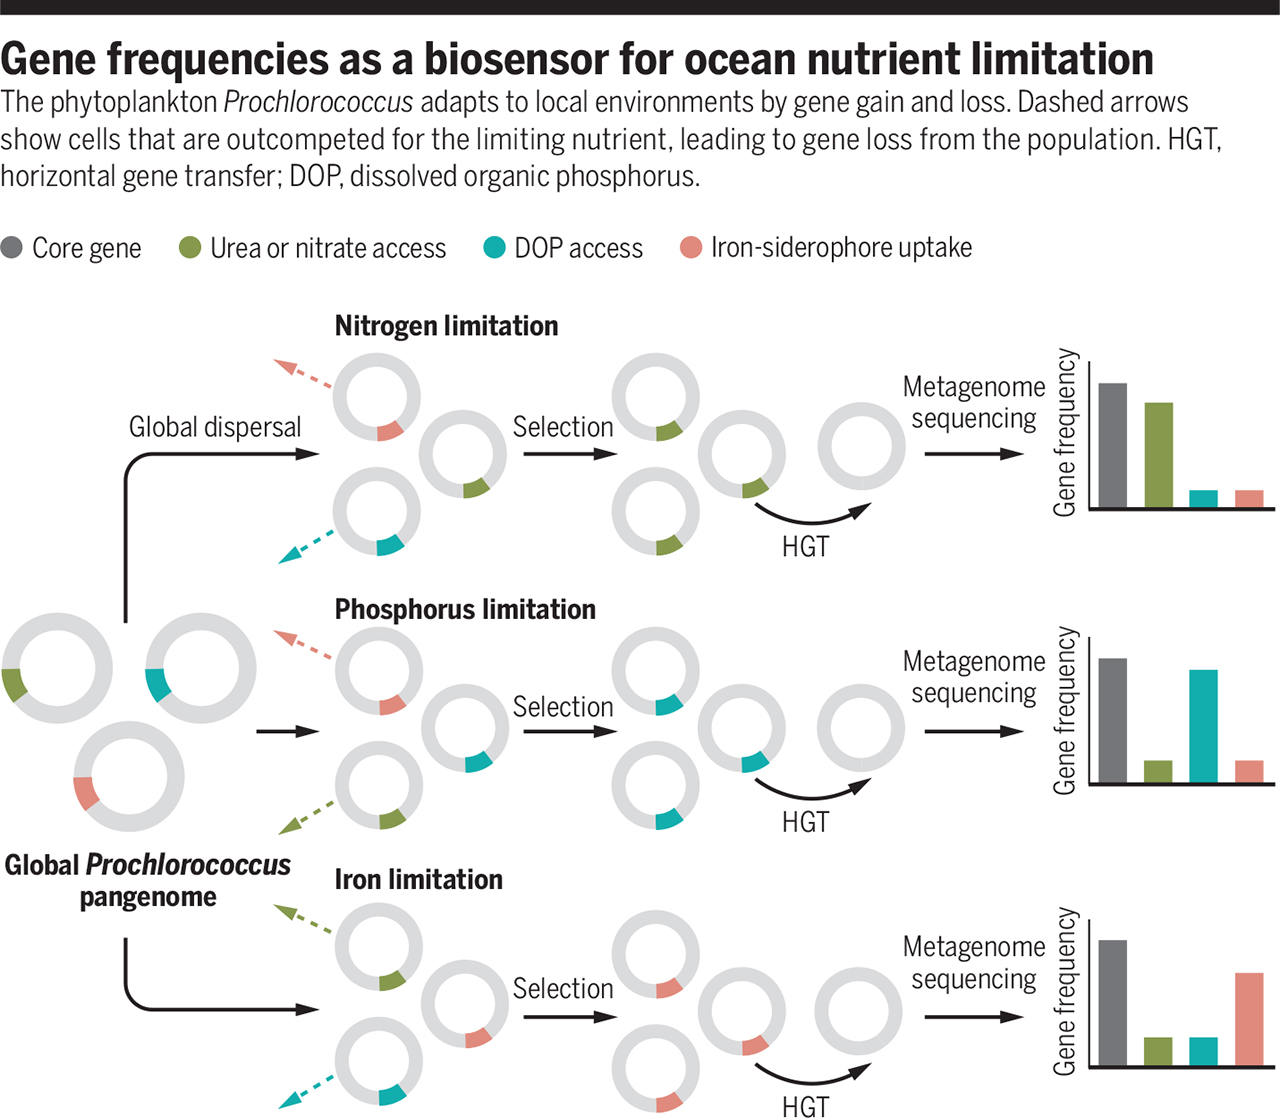
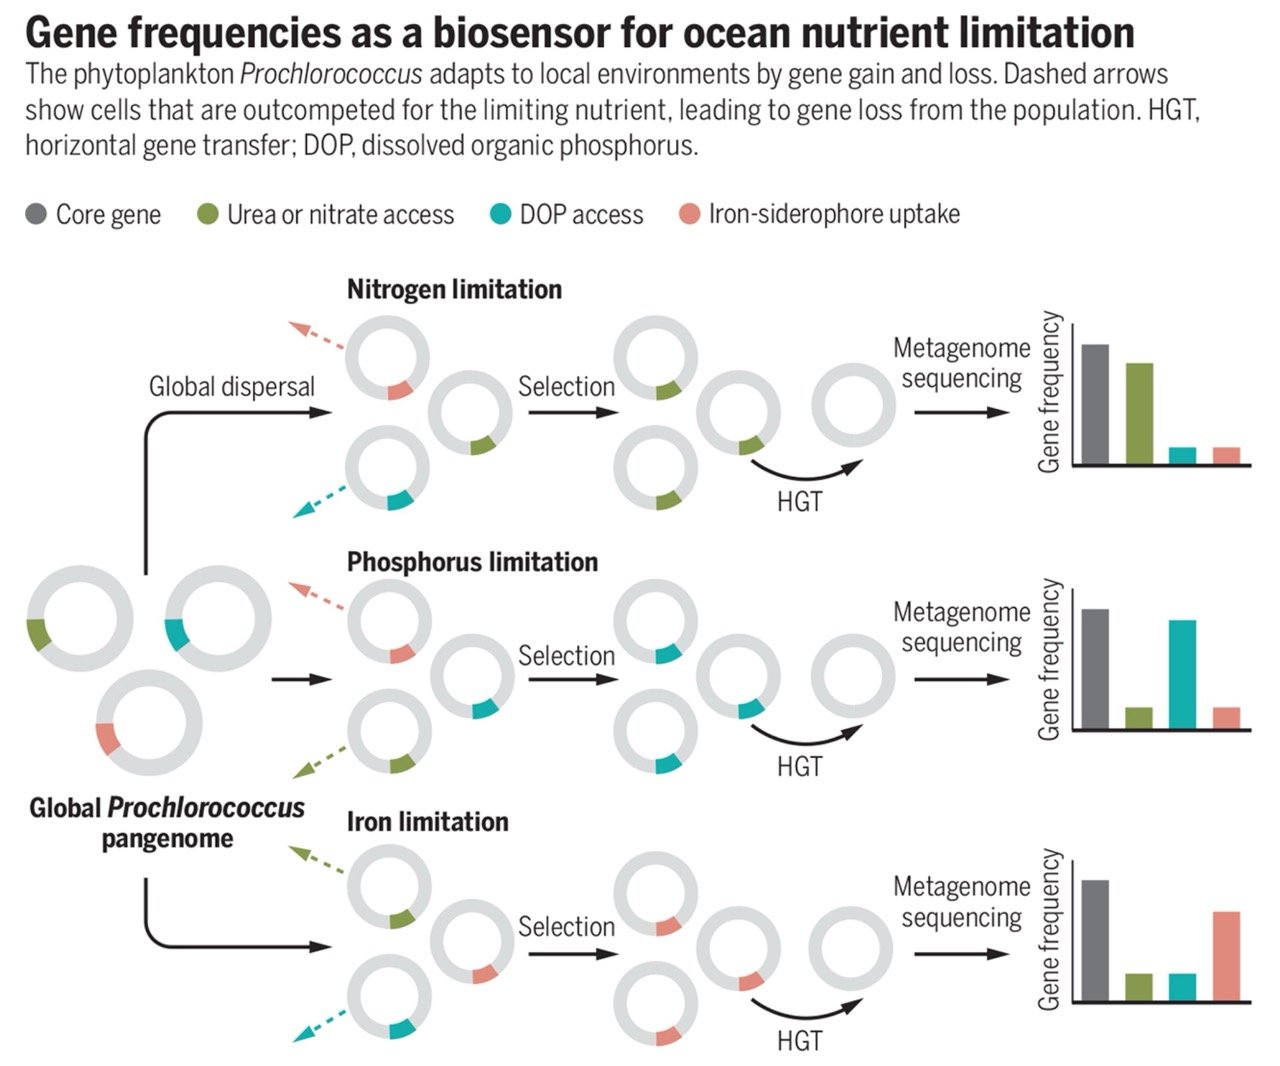
update project 3

Changed region(s): [[0.0, 0.0, 1.0, 1.0], [0.5312, 0.1857, 0.75, 0.2477]]

diff --git a/_projects/03_nut_lim_project.md b/_projects/03_nut_lim_project.md
@@ -8,6 +8,20 @@ importance: 3
 #category: work
 ---
 
+<figure style="float: right; width: 50%; margin: 0 0 1.5rem 2rem;">
+  <img
+    src="/assets/img/projects/nutrient_lim.jpeg"
+    class="img-fluid rounded z-depth-1"
+    alt="Global patterns of nutrient limitation"
+  >
+  <figcaption class="caption">
+    Conceptual overview of the genomic approach to nutrient limitation presented in
+    <a href="https://doi.org/10.1126/science.abe6301">Ustick et al. (2021)</a>,
+    illustrated in the accompanying <i>Science</i> Perspective by
+    <a href="https://doi.org/10.1126/science.abi4684">Coleman (2021)</a>.
+  </figcaption>
+</figure>
+
 Nutrient availability constrains biological productivity, yet identifying patterns of nutrient limitation across ecosystems remains challenging. A major theme of my research has been developing and applying microbial genomic indicators of nutrient stress, using adaptations in microbial genomes as biological signatures of the nutrient conditions experienced by microbial communities.
 
 This framework has expanded to integrate omics biomarkers, environmental observations, nutrient-addition experiments, and remote sensing measurements. Ultimately, this work aims to resolve how nutrient limitation varies across space and through time, and how these patterns respond to global environmental change.
